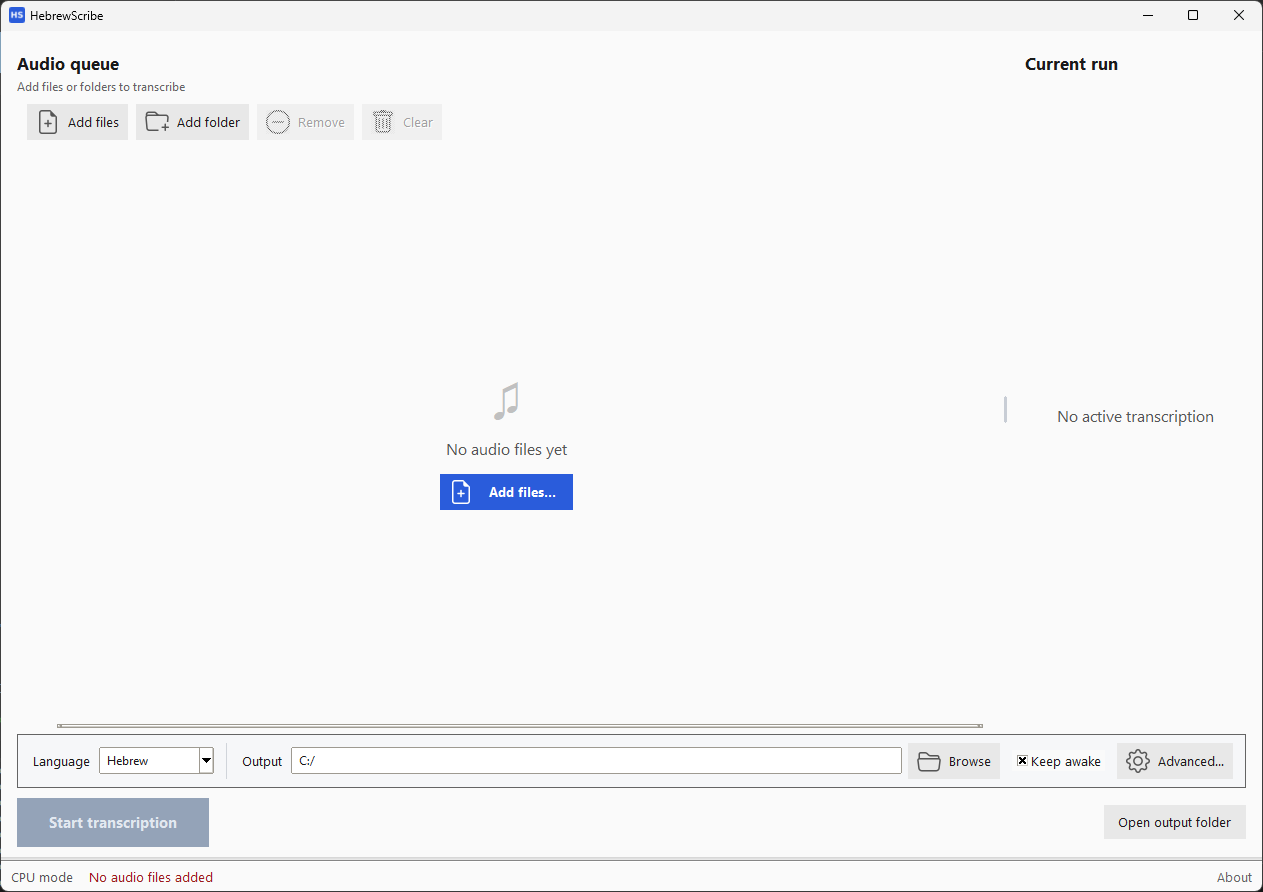
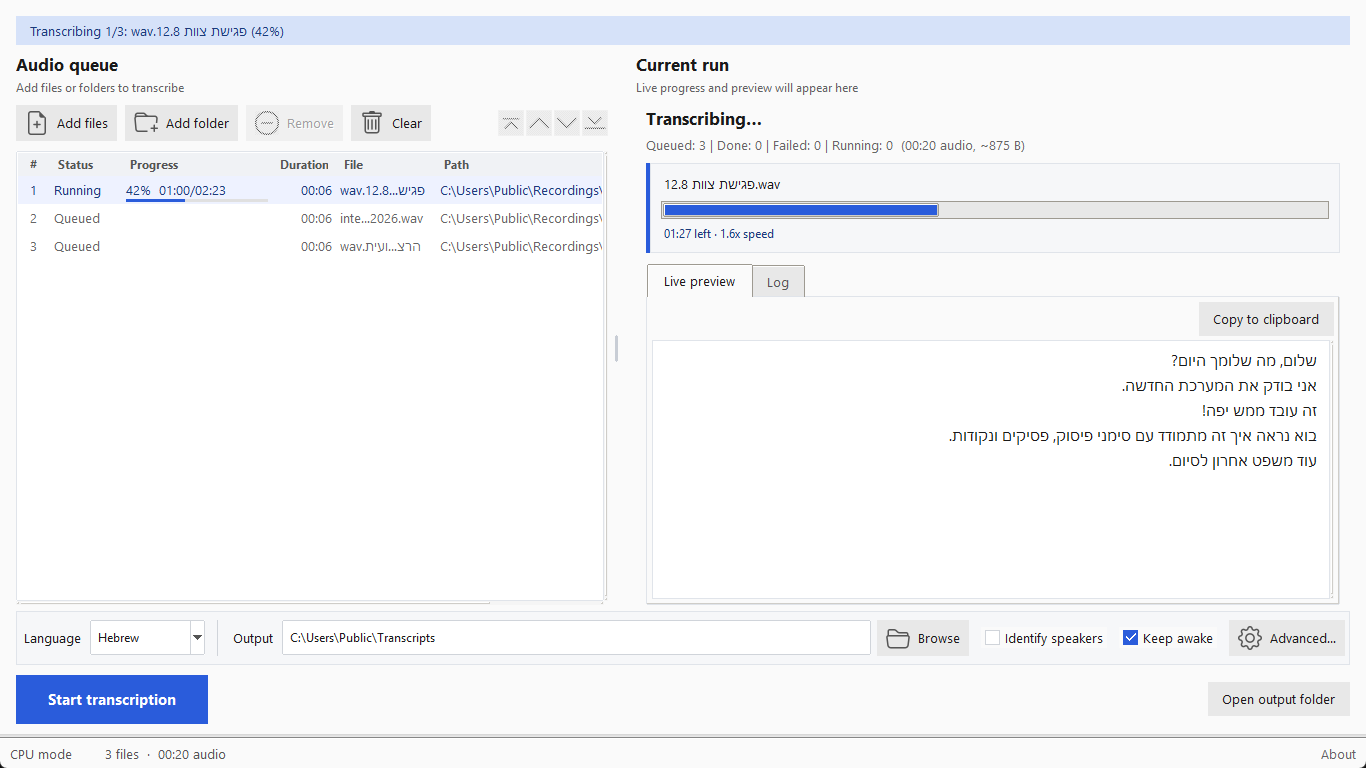
chore: release 2.1.0
Version bump, dated changelog, and a refreshed README: Microsoft Store
is now the primary Windows install path (badges + Store link), the
screenshot is updated to the 2.1 UI mid-transcription, and
source-install docs cover the new [diarization] and [recording] extras.
Adds a Windows .bat launcher alongside the existing .pyw.

diff --git a/version_info.py b/version_info.py
@@ -2,8 +2,8 @@
 
 VSVersionInfo(
     ffi=FixedFileInfo(
-        filevers=(2, 0, 0, 0),
-        prodvers=(2, 0, 0, 0),
+        filevers=(2, 1, 0, 0),
+        prodvers=(2, 1, 0, 0),
         mask=0x3F,
         flags=0x0,
         OS=0x40004,          # VOS_NT_WINDOWS32
@@ -17,11 +17,11 @@ VSVersionInfo(
                 [
                     StringStruct('CompanyName', 'Yevgeniy Glider'),
                     StringStruct('FileDescription', 'HebrewScribe'),
-                    StringStruct('FileVersion', '2.0.0.0'),
+                    StringStruct('FileVersion', '2.1.0.0'),
                     StringStruct('InternalName', 'HebrewScribe'),
                     StringStruct('OriginalFilename', 'HebrewScribe.exe'),
                     StringStruct('ProductName', 'HebrewScribe'),
-                    StringStruct('ProductVersion', '2.0.0.0'),
+                    StringStruct('ProductVersion', '2.1.0.0'),
                 ],
             ),
         ]),

diff --git a/hebrewscribe/__init__.py b/hebrewscribe/__init__.py
@@ -1,3 +1,3 @@
 """HebrewScribe — batch Hebrew speech-to-text using local Whisper models."""
 
-__version__ = "2.0.0"
+__version__ = "2.1.0"

diff --git a/README.md b/README.md
@@ -1,5 +1,10 @@
 # HebrewScribe
 
+[![License: MIT](https://img.shields.io/badge/license-MIT-blue.svg)](LICENSE)
+[![Platform](https://img.shields.io/badge/platform-Windows%20%7C%20macOS-lightgrey.svg)](#quick-start)
+[![Python 3.10+](https://img.shields.io/badge/python-3.10%2B-blue.svg)](pyproject.toml)
+[![Microsoft Store](https://img.shields.io/badge/Microsoft%20Store-HebrewScribe-0078D4)](https://apps.microsoft.com/detail/9PBS32VWZPBB)
+
 A free, offline desktop application for batch transcription of Hebrew audio using local Whisper models.
 
 HebrewScribe turns Hebrew audio files into text on your own computer, with no cloud services, no accounts, and no data leaving your machine. Queue a handful of recordings or an entire folder, and let it run. Powered by [faster-whisper](https://github.com/SYSTRAN/faster-whisper) and Whisper models fine-tuned for Hebrew by [ivrit-ai](https://huggingface.co/ivrit-ai).
@@ -17,21 +22,43 @@ The process is entirely local:
 - Voice Activity Detection filters silence for faster processing
 - GPU acceleration when available (CUDA on Windows)
 - Sleep prevention keeps your machine awake during long batches
+- Live recording (experimental): dictate into the microphone and watch the transcript appear
 
 ![HebrewScribe main window](screenshot.png)
 
 ## Quick Start
 
-Download the Windows installer from [yevgeniyglider.com/hebrewscribe](https://yevgeniyglider.com/hebrewscribe/) and run it.
+**Windows** — install from the Microsoft Store (recommended: always the current version, updates automatically, no security prompts):
 
-On macOS, install/build from source.
+<a href="https://apps.microsoft.com/detail/9PBS32VWZPBB"><img src="https://get.microsoft.com/images/en-us%20dark.svg" width="200" alt="Get HebrewScribe from the Microsoft Store"/></a>
+
+**macOS** — install from source (below).
+
+Other options, including a direct Windows installer for machines where the Store is unavailable, are listed at [yevgeniyglider.com/hebrewscribe](https://yevgeniyglider.com/hebrewscribe/).
 
 ## Installation from Source
 
-Requires Python 3.9+ and [FFmpeg](https://ffmpeg.org).
+Requires Python 3.10+ and [FFmpeg](https://ffmpeg.org).
 
 ```bash
 pip install -e ".[faster]"
+```
+
+For speaker diarization ("Identify speakers"), add the `diarization` extra —
+it pulls PyTorch, so prefer the CPU wheel index unless you have a CUDA GPU:
+
+```bash
+pip install -e ".[faster,diarization]" --extra-index-url https://download.pytorch.org/whl/cpu
+```
+
+The speaker model (~33 MB) downloads automatically on first use and runs
+fully offline afterwards. On macOS this requires Apple Silicon.
+
+For experimental live recording (dictation from the microphone), add the
+`recording` extra:
+
+```bash
+pip install -e ".[faster,recording]"
 ```
 
 Run with `python -m hebrewscribe`, or double-click `HebrewScribe.pyw` (Windows) / `HebrewScribe.command` (macOS).
@@ -42,10 +69,11 @@ HebrewScribe is a Python desktop application using tkinter for the GUI:
 
 - **GUI:** tkinter with a custom flat theme, DPI-aware on Windows
 - **Transcription:** [faster-whisper](https://github.com/SYSTRAN/faster-whisper) (CTranslate2-based)
+- **Speaker diarization (optional):** [pyannote.audio](https://github.com/pyannote/pyannote-audio) community-1 pipeline, fully offline with self-hosted weights
 - **Audio:** FFmpeg for format conversion
 - **Models:** Curated selection from [ivrit-ai](https://huggingface.co/ivrit-ai) (Hebrew) and [Systran](https://huggingface.co/Systran) (multilingual), downloaded from Hugging Face Hub
 
-The codebase is a single Python package (`hebrewscribe/`) with 8 focused modules: app, worker, models, outputs, power, theme, utils, and widgets. 252 tests cover the core logic.
+The codebase is a single Python package (`hebrewscribe/`) with 10 focused modules: app, worker, recorder, diarize, models, outputs, power, theme, utils, and widgets. 360+ tests cover the core logic.
 
 ## Project Map
 
@@ -66,8 +94,8 @@ HebrewScribe/
   scripts/render_icons.py          # SVG-to-PNG build script
   icon.ico / icon.icns             # App icons
   screenshot.png                   # README screenshot
-  hebrewscribe/                    # Source package (8 modules + icons)
-  tests/                           # 252 tests
+  hebrewscribe/                    # Source package (10 modules + icons)
+  tests/                           # 360+ tests
   assets/                          # SVG source icons
 ```
 

diff --git a/CHANGELOG.md b/CHANGELOG.md
@@ -1,9 +1,56 @@
 # Changelog
 
+## 2.1.0 (2026-08-15)
+
+- **Speaker diarization**: new "Identify speakers" checkbox labels each
+  transcript line by speaker (e.g., `Speaker 1:`, and in Hebrew: `דובר 1:`)
+  in txt/srt outputs; JSON carries raw speaker ids and display labels.
+  Powered by pyannote.audio (speaker-diarization-community-1), fully offline —
+  the Windows installer bundles the ~33 MB speaker model; source installs
+  download it on first use. Advanced Settings gains a "Number of speakers"
+  hint (0 = auto) and, on macOS, a processing-device choice (Apple Silicon
+  GPU acceleration via MPS, or CPU).
+- Word-level speaker attribution: segments that span a speaker change are
+  split at the change (requires word timestamps; enabled automatically when
+  diarization is on — expect roughly 10-30% slower transcription).
+- Live preview refresh: once speaker identification finishes for a file, the
+  Live preview pane is replaced with the final speaker-labeled transcript —
+  exactly what the .txt output will contain. (During transcription the
+  preview streams unlabeled text as before; speakers are computed only after
+  the whole file is heard.)
+- **Live recording**: transcribe straight from the
+  microphone — speak, and each phrase appears in the app within a few
+  seconds, also fully offline (voice activity detection segments the speech
+  locally). Copy or save the text when you stop. Off by default: tick
+  "Enable live recording (experimental)" in Advanced Settings to show
+  the Record button.
+- The Windows installer grows by roughly 160 MB (bundled PyTorch CPU
+  runtime; 318 MB total, up from 155 MB). Source installs now require
+  Python 3.10+ (3.9 is end-of-life).
+- macOS: diarization-capable builds are Apple-Silicon-only (PyTorch no longer
+  ships Intel-Mac wheels).
+- Fixed: Windows taskbar progress overlay bug - the taskbar now shows batch progress.
+- Fixed: "Cancel" pressed while paused no longer starts the next file before
+  taking effect.
+- Fixed: batch summary counts no longer mix per-run and whole-session totals
+  on "Continue" runs; adding files mid-run is now blocked with a message.
+- Fixed: progress bars can no longer briefly jump backwards; some tooltips and
+  dialogs that had bugs (About, self-test report, Advanced Settings) stay on-screen near
+  screen edges and no longer open with clipped buttons.
+- Fixed: with two app instances running, log rotation no longer silently
+  stops the file log.
+- Visual refresh: modern checkboxes and flat control styling; aligned layout
+  grid; readable live-transcript and preview typography; smarter queue table
+  (content-fit columns, filename ellipsis, better time estimates,
+  the active row is highlighted); correct right-to-left rendering of Hebrew
+  punctuation and filenames everywhere (preview, dictation, queue, banner);
+  the dictation panel widens automatically while recording and uses a red
+  "recording" status language.
+
 ## 2.0.0 (2026-04-09)
 
 - Initial public release. Fully redesigned engine and layout.
 
 ## 1.0.0
 
-- Initial  internal release.
+- Initial internal release.
